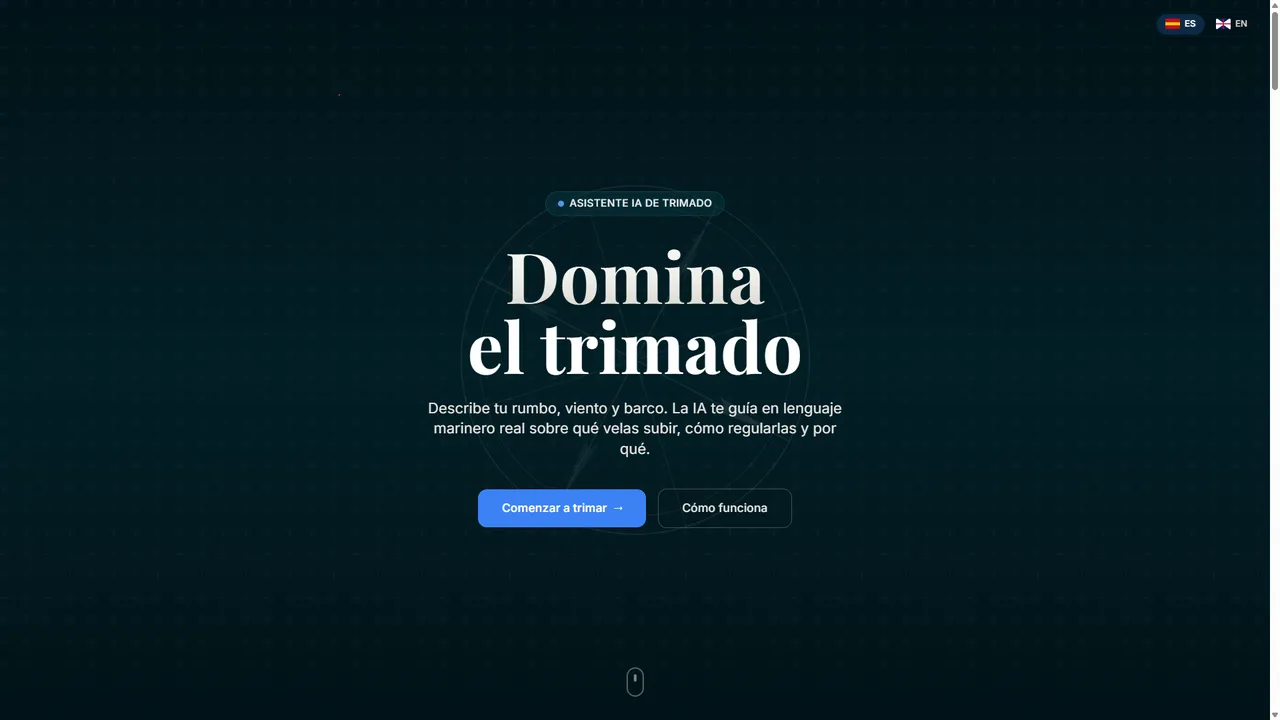
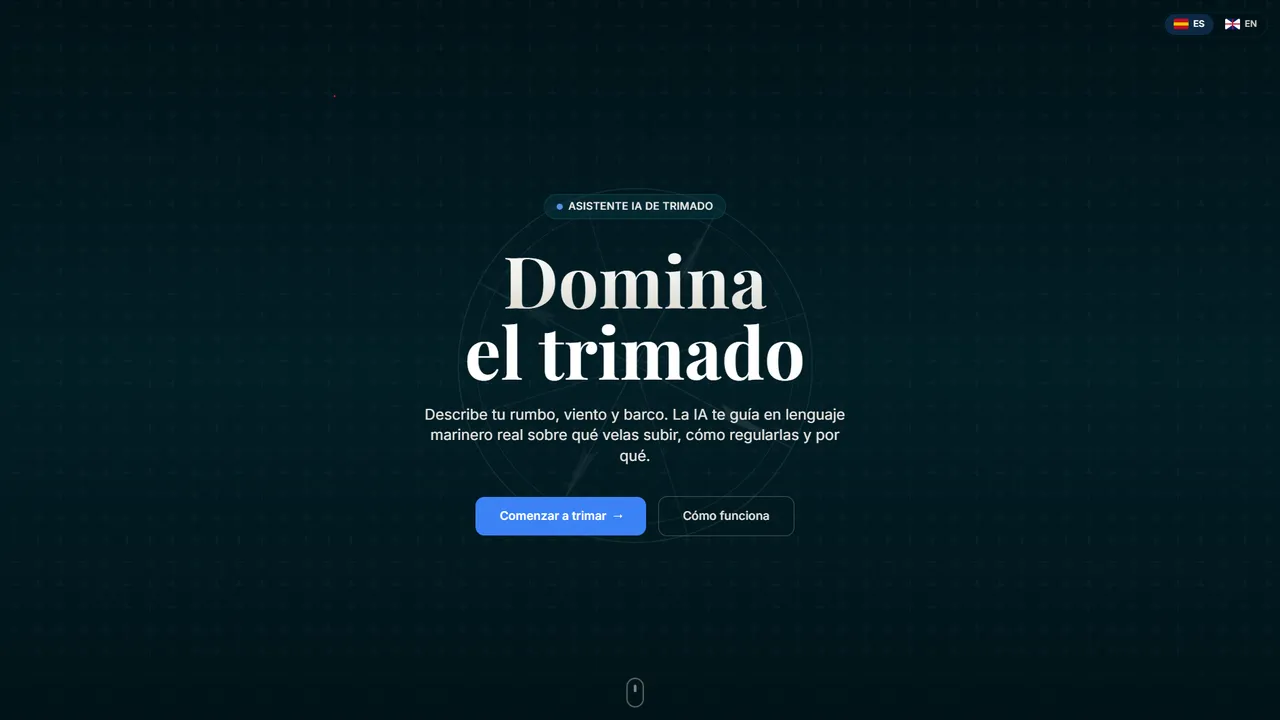
fix: color tech tags and fix project action buttons

diff --git a/src/pages/Projects.css b/src/pages/Projects.css
@@ -57,19 +57,21 @@
 .tag {
   padding: 0.25rem 0.65rem; border-radius: var(--radius-full);
   font-size: 0.75rem; font-weight: 600; letter-spacing: 0.04em;
-  border: 1px solid var(--color-border-solid); color: var(--color-muted);
-  background: var(--color-surface-alt, #181214);
+  color: var(--tag, var(--color-muted));
+  border: 1px solid color-mix(in srgb, var(--tag, #ffffff) 30%, transparent);
+  background: color-mix(in srgb, var(--tag, #ffffff) 10%, transparent);
   transition: color var(--transition), border-color var(--transition), background var(--transition);
 }
-.tag:hover { color: var(--color-primary); border-color: rgba(240,90,26,0.3); background: var(--color-primary-dim); }
-.project-card__actions { display: flex; gap: 0.75rem; margin-top: 0.25rem; }
+.tag:hover { border-color: color-mix(in srgb, var(--tag, #ffffff) 55%, transparent); background: color-mix(in srgb, var(--tag, #ffffff) 18%, transparent); }
+.project-card__actions { display: flex; flex-wrap: wrap; gap: 0.6rem; margin-top: 0.25rem; }
 .project-card__link {
-  display: inline-flex; align-items: center; gap: 0.3rem;
+  display: inline-flex; align-items: center; gap: 0.3rem; white-space: nowrap;
   padding: 0.5rem 1.1rem; border-radius: var(--radius-full);
-  font-size: 0.875rem; font-weight: 600; border: 1px solid var(--color-border-solid);
+  font-size: 0.875rem; font-weight: 600;
+  background: var(--color-surface-alt, #181214); border: 1px solid rgba(255,255,255,0.14);
   transition: background var(--transition), border-color var(--transition), color var(--transition), transform var(--transition);
 }
-.project-card__link:hover { background: var(--color-surface-hover); border-color: rgba(240,90,26,0.2); color: var(--color-primary); transform: translateY(-1px); }
+.project-card__link:hover { background: var(--color-surface-hover); border-color: rgba(240,90,26,0.3); color: var(--color-primary); transform: translateY(-1px); }
 .project-card__link--demo { background: var(--color-primary); border-color: var(--color-primary); color: #fff; }
 .project-card__link--demo:hover { background: var(--color-primary-hover); border-color: var(--color-primary-hover); color: #fff; box-shadow: 0 6px 20px rgba(240,90,26,0.35); transform: translateY(-2px); }
 .project-card__link--modrinth, .project-card__link--modrinth:hover {

diff --git a/src/pages/Home.css b/src/pages/Home.css
@@ -84,9 +84,10 @@
 .slider__title { font-size: 1.1rem; font-weight: 700; margin-bottom: 0.4rem; }
 .slider__description { color: var(--color-muted); font-size: 0.9rem; line-height: 1.6; margin-bottom: 1rem; }
 .slider__btn {
-  display: inline-flex; align-items: center; gap: 0.35rem;
+  display: inline-flex; align-items: center; gap: 0.35rem; white-space: nowrap;
   padding: 0.55rem 1.1rem; border-radius: var(--radius-full);
-  font-size: 0.875rem; font-weight: 600; border: 1px solid var(--color-border-solid);
+  font-size: 0.875rem; font-weight: 600;
+  background: var(--color-surface-alt, #181214); border: 1px solid rgba(255,255,255,0.14);
   transition: background var(--transition), border-color var(--transition), color var(--transition);
 }
 .slider__btn:hover { background: var(--color-primary-dim); border-color: var(--color-primary); color: var(--color-primary); }

diff --git a/src/pages/Projects.jsx b/src/pages/Projects.jsx
@@ -1,7 +1,7 @@
 import { useState, useRef, useEffect } from 'react'
 import { gsap } from 'gsap'
 import { useLang } from '../context/LangContext'
-import { projects, categoryLabels, brandLabels } from '../data/projects'
+import { projects, categoryLabels, brandLabels, tagColors } from '../data/projects'
 import './Projects.css'
 
 const content = {
@@ -69,7 +69,7 @@ function Projects() {
               </div>
               <p className="project-card__description">{p.desc[lang]}</p>
               <div className="project-card__tags">
-                {p.tags.map(t => <span className="tag" key={t}>{t}</span>)}
+                {p.tags.map(t => <span className="tag" key={t} style={{ '--tag': tagColors[t] }}>{t}</span>)}
               </div>
               <div className="project-card__actions">
                 {p.links.map(l => (

diff --git a/src/data/projects.js b/src/data/projects.js
@@ -129,6 +129,14 @@ export const categoryLabels = {
   mods: { es: 'Apps y mods', en: 'Apps & mods' },
 }
 
+export const tagColors = {
+  React: '#61dafb', TypeScript: '#3178c6', FastAPI: '#009688', Python: '#3776ab',
+  'Llama 3': '#7c5cff', Java: '#e76f00', Forge: '#d9a441', Fabric: '#c9a98a',
+  NeoForge: '#f0932b', Quilt: '#c153d0', Discord: '#5865f2', Webhooks: '#7ea6d9',
+  'Node.js': '#68a063', MongoDB: '#47a248', Gemini: '#4285f4', Tailwind: '#38bdf8',
+  PWA: '#8b5cf6', CSS: '#8fb6e8', HTML: '#e34f26', LocalStorage: '#d6b13d',
+}
+
 export const brandLabels = {
   modrinth: { es: 'Modrinth', en: 'Modrinth' },
   curseforge: { es: 'CurseForge', en: 'CurseForge' },
